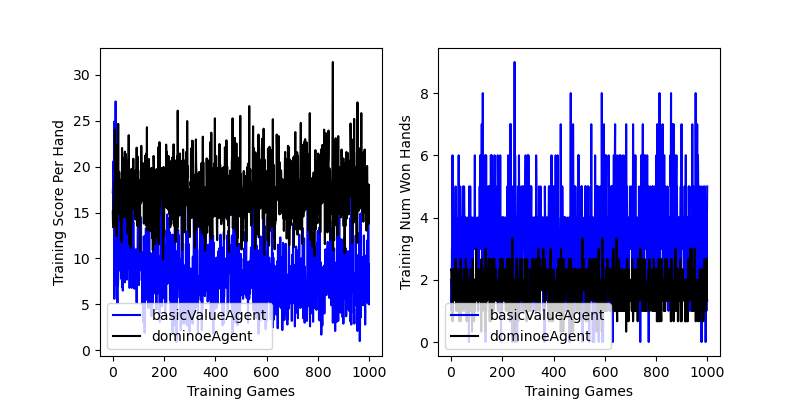
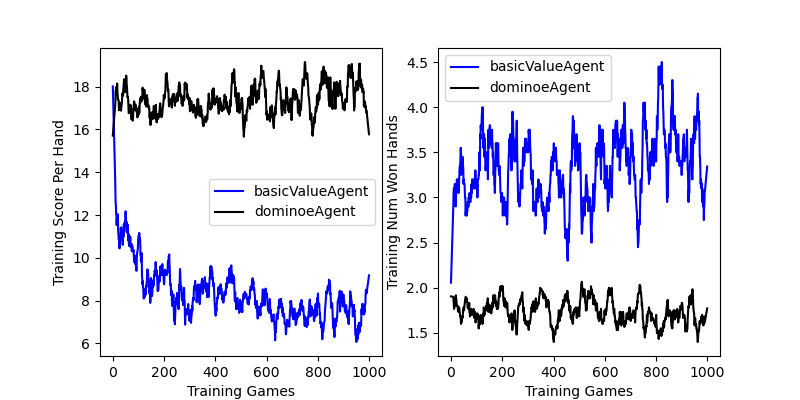
Filtered plots show trajectory better

diff --git a/experiments/trainValueAgent.py b/experiments/trainValueAgent.py
@@ -12,6 +12,7 @@ import argparse
 from pathlib import Path
 from tqdm import tqdm
 import numpy as np
+from scipy.signal import savgol_filter
 import torch.cuda as torchCuda
 import matplotlib.pyplot as plt
 
@@ -100,19 +101,28 @@ def trainValueAgent(numPlayers, highestDominoe, shuffleAgents, trainGames, train
 
 # And a function for plotting results
 def plotResults(results):
+    filter = lambda x : savgol_filter(x, 20, 1)
     trainRounds = args.train_rounds if args.train_rounds is not None else highestDominoe+1
     fig,ax = plt.subplots(1,2,figsize=(8,4))
-    ax[0].plot(range(args.train_games), results['trainScoreTally'][:,0]/trainRounds, c='b', label=args.value_agent)
-    ax[0].plot(range(args.train_games), np.mean(results['trainScoreTally'][:,1:],axis=1)/trainRounds, c='k', label=f"{args.opponent}")
+    ax[0].plot(range(args.train_games), 
+               filter(results['trainScoreTally'][:,0]/trainRounds), 
+               c='b', label=args.value_agent)
+    ax[0].plot(range(args.train_games), 
+               filter(np.mean(results['trainScoreTally'][:,1:],axis=1)/trainRounds),
+               c='k', label=f"{args.opponent}")
     ax[0].set_xlabel('Training Games')
     ax[0].set_ylabel('Training Score Per Hand')
-    ax[0].legend(loc='lower left')
+    ax[0].legend(loc='best')
 
-    ax[1].plot(range(args.train_games), results['trainHandWinnerCount'][:,0], c='b', label=args.value_agent)
-    ax[1].plot(range(args.train_games), np.mean(results['trainHandWinnerCount'][:,1:],axis=1), c='k', label=f"{args.opponent}")
+    ax[1].plot(range(args.train_games), 
+               filter(results['trainHandWinnerCount'][:,0]), 
+               c='b', label=args.value_agent)
+    ax[1].plot(range(args.train_games), 
+               filter(np.mean(results['trainHandWinnerCount'][:,1:],axis=1)), 
+               c='k', label=f"{args.opponent}")
     ax[1].set_xlabel('Training Games')
     ax[1].set_ylabel('Training Num Won Hands')
-    ax[1].legend(loc='lower left')
+    ax[1].legend(loc='best')
     
     if not(args.nosave):
         plt.savefig(str(figsPath/getFileName()))
